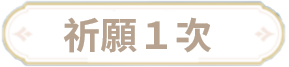
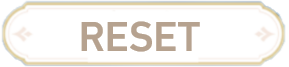
從電腦autosave自動同步

Changed region(s): [[0.218, 0.2687, 0.7474, 0.806]]

diff --git a/首頁資料/js/festival.js b/首頁資料/js/festival.js
@@ -9,6 +9,7 @@ const backgroundbtn = document.getElementById("change-background")
 const onecardVid = document.getElementById("one-card-video")
 const onecardAud = document.getElementById("one-card-audio")
 const skip = document.getElementById("skip")
+const resetbtn = document.getElementsByClassName('stone')[0]
 var cards = document.getElementsByClassName("card")
 
 var backgroundnum = 0
@@ -31,7 +32,7 @@ function slide(tar, speed, from, to) {
     }
 }
 
-function gacha(num) {
+function gacha() {
     if (stone.value < 1600) { window.alert("no stone"); return }
     var pickCards = []
     stone.value = parseInt(stone.value) - 1600
@@ -77,13 +78,13 @@ function gacha(num) {
     onecardAud.currentTime = "0"; onecardAud.play()
     const myaction = function () {
         vid.removeEventListener('ended', myaction); skip.removeEventListener('click', myaction)
-        show_ten_cards();
+        show_cards();
     }
     vid.addEventListener("ended", myaction);
     skip.addEventListener("click", myaction);
 }
 
-function show_ten_cards() {
+function show_cards() {
     onecardAud.pause()
     transition.style.display = "none";
     result.style.display = "initial";
@@ -102,14 +103,20 @@ function show_ten_cards() {
             };
             result.style.display = "none";
             if (parseInt(score.value) >= 85) {
-                window.alert("85分的動畫放這裡")
+                window.alert("已滿85分")
             }
         }, { once: true })
     }, 2000)
-
-
 }
+
+function resetall(){
+    score.value='000'
+    reset()
+    stone.value='14400'
+    window.alert("已重置")
+}
+
 window.onload = function () {
-    mygacha[0].addEventListener("click", function () { window.alert("維修中") })
-    mygacha[1].addEventListener("click", function () { gacha(10) })
+    mygacha[0].addEventListener("click",resetall)
+    mygacha[1].addEventListener("click",gacha)
 }

diff --git a/首頁資料/css/festival.css b/首頁資料/css/festival.css
@@ -24,13 +24,13 @@ a{text-decoration: none;color: unset;}
 .pool img{position: absolute; width: 150%;left: -25%;top: 0%;}
 
 /*rules*/
-.rules{position: fixed; bottom:0;left: 0; width: 30vw;height: 30vh;padding: 5px;}
+.rules{position: fixed; bottom:0;left: 0; width: 30vw;height: 30vh;padding: 5px;font-size: large;}
 
 /*score*/
 .score{position: fixed;left: 40vw;top: 1vh;min-width: 10vw; padding: 0 50px;  height: 8vh;
     line-height: 8vh;font-size: 8vh; font-family: 'digital';}
 .score input{position: absolute;top: 0; height: 8vh;padding: 0; margin: 0;font-variant: normal;text-justify: inter-word; 
-    line-height: 8vh;font-size: 8vh;width: 21vh;font-family: 'digital';}
+    line-height: 8vh;font-size: 8vh;width: 21vh;font-family: 'digital';margin: 0;}
 /*description*/
 .activity-area{
     position: fixed;left: 20vw;top: 10vh; aspect-ratio: 1.8; right: 50px; max-height: 80vh;
